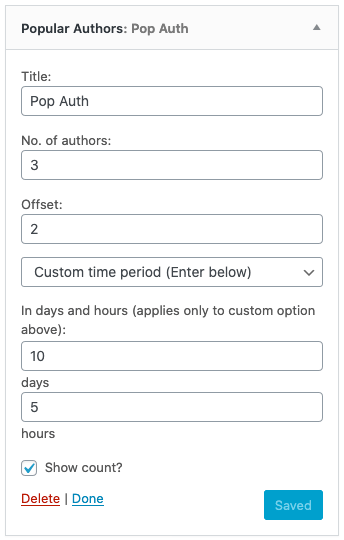
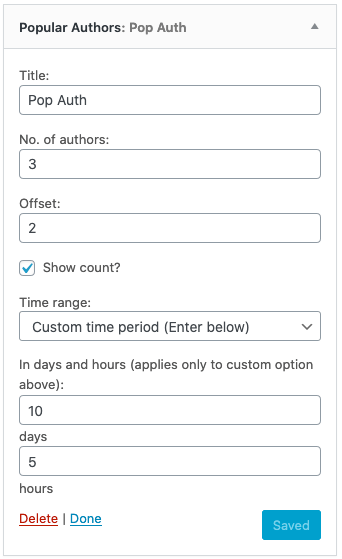
Updated widget

diff --git a/includes/class-popular-authors-widget.php b/includes/class-popular-authors-widget.php
@@ -67,6 +67,12 @@ class Popular_Authors_Widget extends WP_Widget {
 			</label>
 		</p>
 		<p>
+			<label for="<?php echo esc_attr( $this->get_field_id( 'optioncount' ) ); ?>">
+				<input id="<?php echo esc_attr( $this->get_field_id( 'optioncount' ) ); ?>" name="<?php echo esc_attr( $this->get_field_name( 'optioncount' ) ); ?>" type="checkbox" <?php checked( true, $optioncount, true ); ?> /> <?php esc_html_e( 'Show count?', 'popular-authors' ); ?>
+			</label>
+		</p>
+		<p>
+			<label for="<?php echo esc_attr( $this->get_field_id( 'daily' ) ); ?>"><?php esc_html_e( 'Time range', 'popular-authors' ); ?>:</label>
 			<select class="widefat" id="<?php echo esc_attr( $this->get_field_id( 'daily' ) ); ?>" name="<?php echo esc_attr( $this->get_field_name( 'daily' ) ); ?>">
 				<option value="overall" <?php selected( 'overall', $daily, true ); ?>><?php esc_html_e( 'Overall', 'popular-authors' ); ?></option>
 				<option value="daily" <?php selected( 'daily', $daily, true ); ?>><?php esc_html_e( 'Custom time period (Enter below)', 'popular-authors' ); ?></option>
@@ -79,11 +85,6 @@ class Popular_Authors_Widget extends WP_Widget {
 			</label>
 			<label for="<?php echo esc_attr( $this->get_field_id( 'hour_range' ) ); ?>">
 				<input class="widefat" id="<?php echo esc_attr( $this->get_field_id( 'hour_range' ) ); ?>" name="<?php echo esc_attr( $this->get_field_name( 'hour_range' ) ); ?>" type="text" value="<?php echo esc_attr( $hour_range ); ?>" /> <?php esc_html_e( 'hours', 'popular-authors' ); ?>
-			</label>
-		</p>
-		<p>
-			<label for="<?php echo esc_attr( $this->get_field_id( 'optioncount' ) ); ?>">
-				<input id="<?php echo esc_attr( $this->get_field_id( 'optioncount' ) ); ?>" name="<?php echo esc_attr( $this->get_field_name( 'optioncount' ) ); ?>" type="checkbox" <?php checked( true, $optioncount, true ); ?> /> <?php esc_html_e( 'Show count?', 'popular-authors' ); ?>
 			</label>
 		</p>
 
